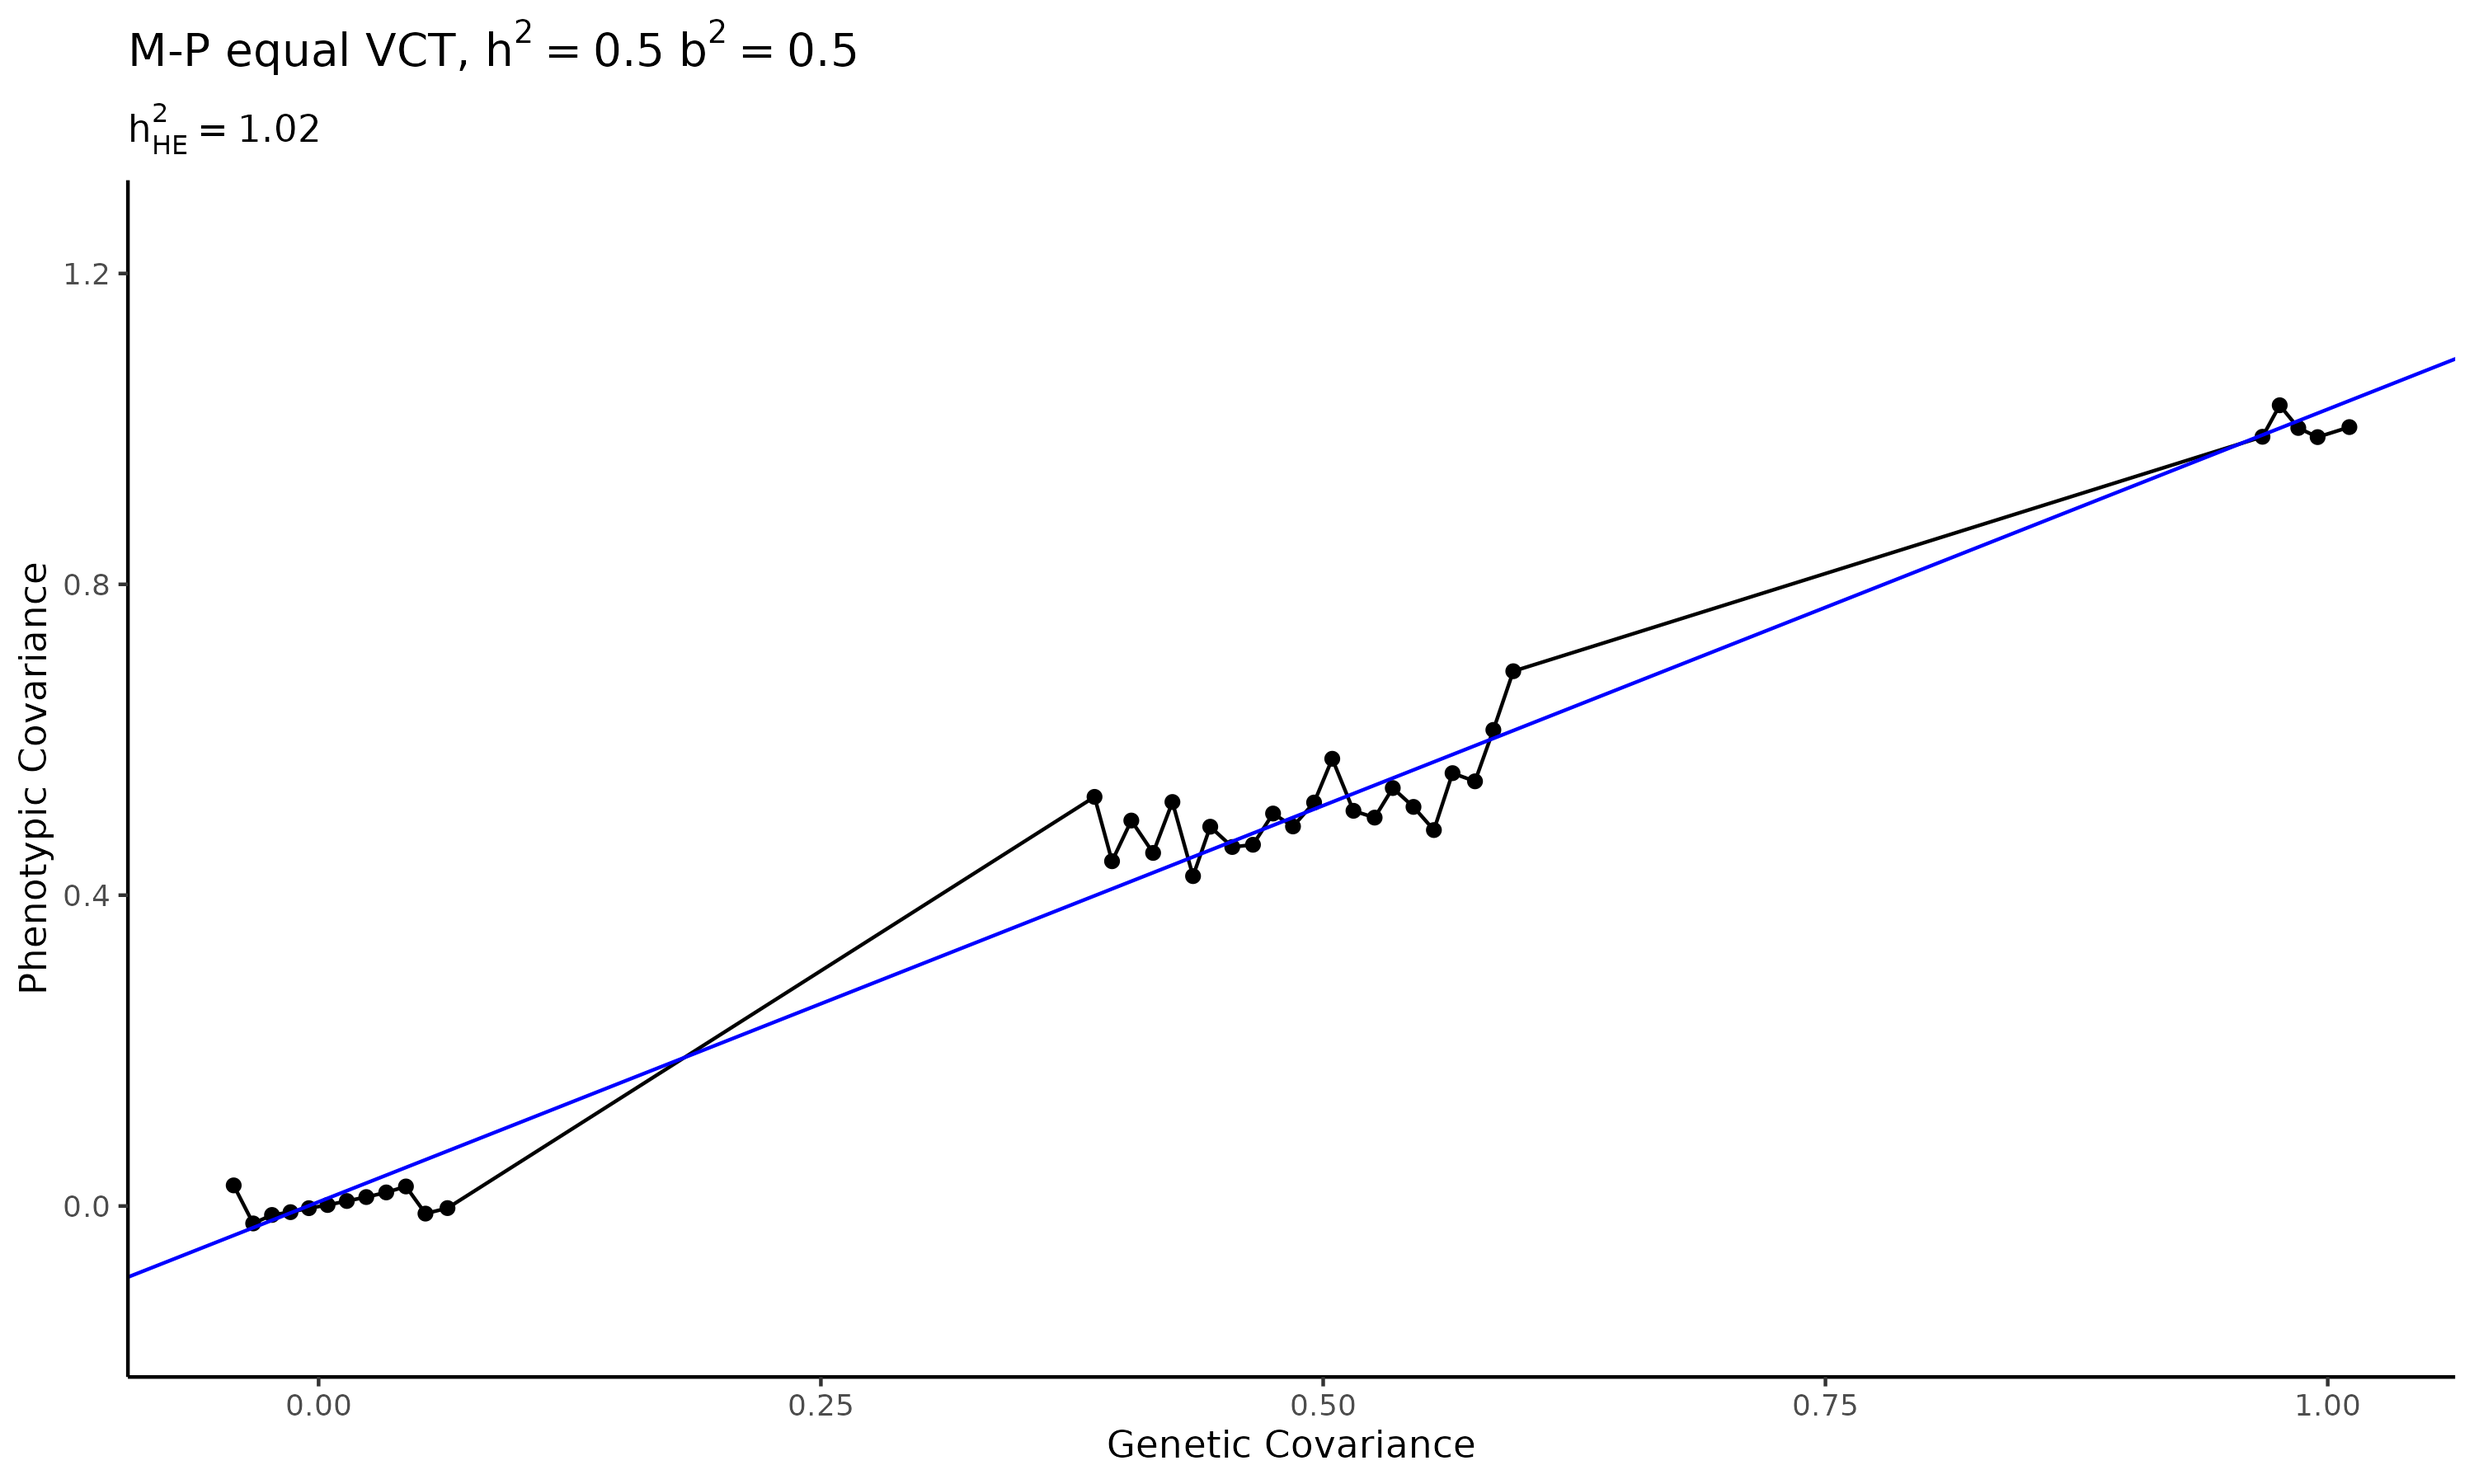
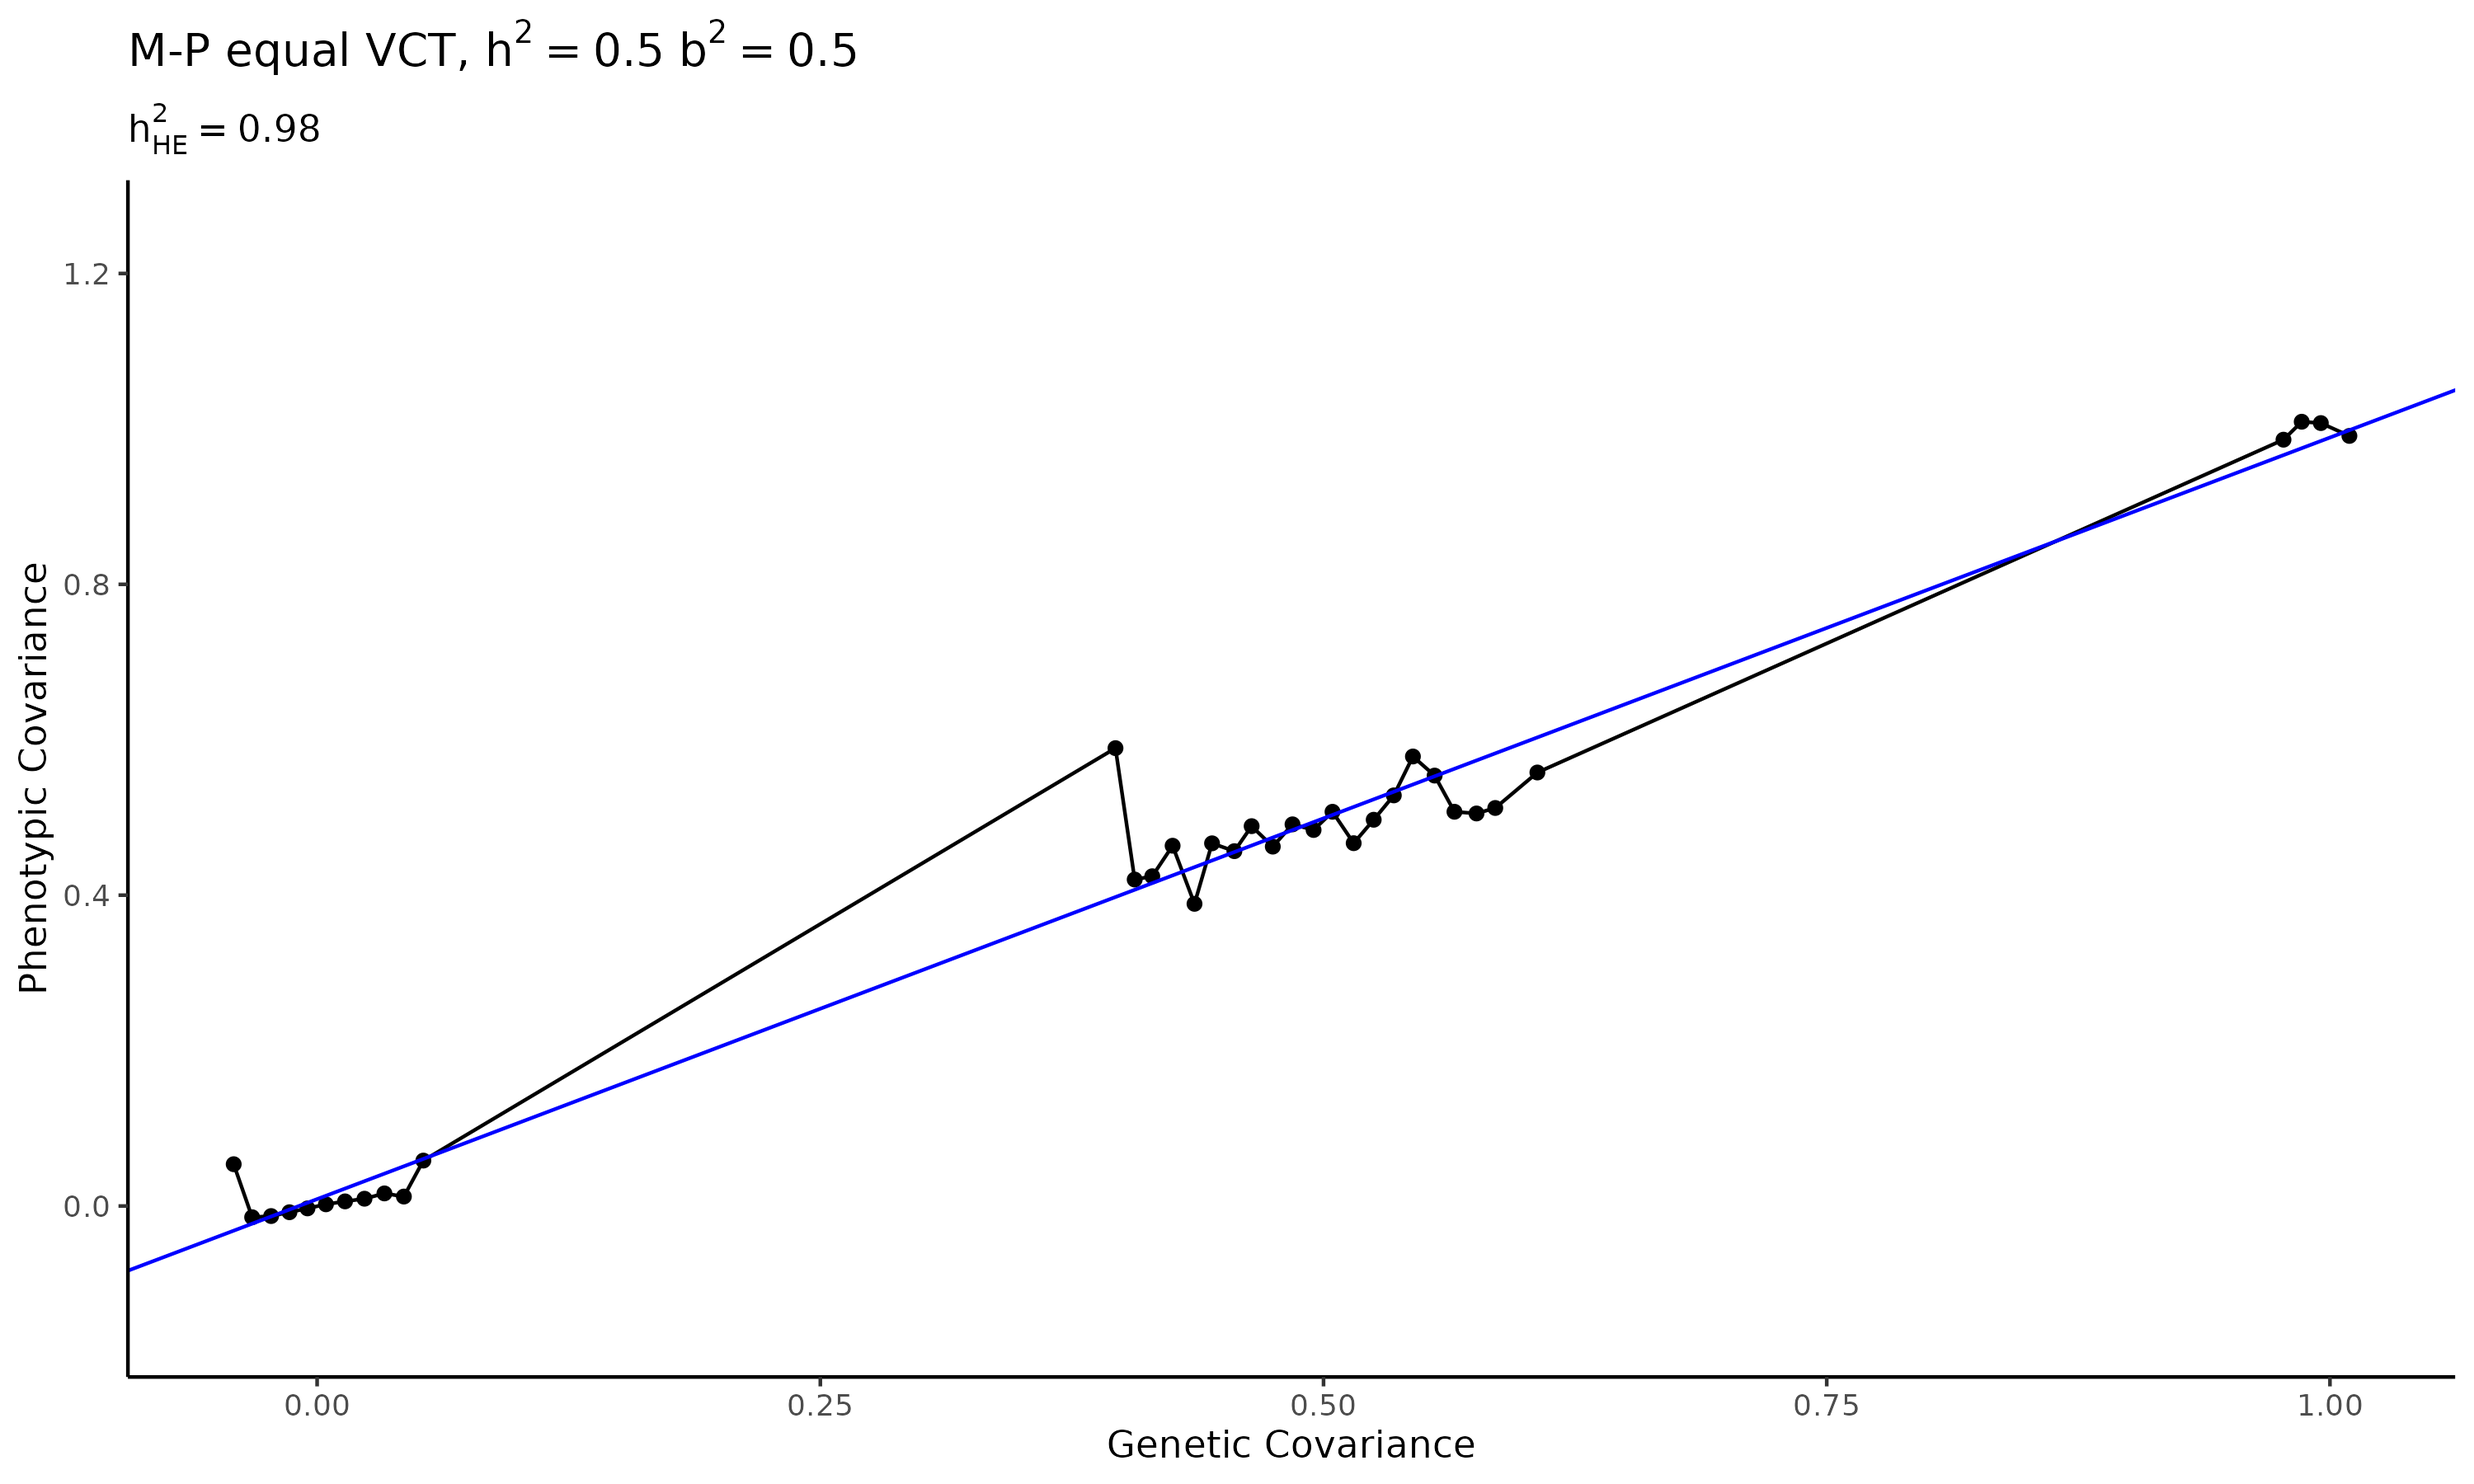
up to 50 replicates, still not really visible...?

diff --git a/scripts/minimal_simulation_utils.py b/scripts/minimal_simulation_utils.py
@@ -53,9 +53,14 @@ def compute_grm(simulation, maf_min: float = 0.01) -> np.ndarray:
     var = np.nanvar(geno, axis=0)
     var_mask = (var > 0) & ~np.isnan(var)
     geno = geno[:, var_mask]
-
-    return np.cov(geno)
-
+    
+    geno_centered = geno - np.nanmean(geno, axis=0)
+    
+    # direct GRM computation
+    m = geno_centered.shape[1]
+    grm = (geno_centered @ geno_centered.T) / m
+    
+    return grm
 
 def get_pedigree_distance(sim, maximum_depth=None) -> pd.DataFrame:
     """
@@ -151,7 +156,8 @@ def make_covariance_matrix(
     grm = compute_grm(simulation, maf_min=maf)
 
     # Phenotype-related covariance matrices.
-    pcov = pd_pheno.loc[:, ('Y', 'phenotype')] @ pd_pheno.loc[:, ('Y', 'phenotype')].T
+    y_vals = pd_pheno.loc[:, ('Y', 'phenotype')].values
+    pcov = y_vals @ y_vals.T
 
     # Upper-triangle entries (including diagonal).
     num_individuals = len(ids)
@@ -165,7 +171,7 @@ def make_covariance_matrix(
     data = {
         "pedigree_id1": [pair[0] for pair in individual_pairs],
         "pedigree_id2": [pair[1] for pair in individual_pairs],
-        "Y": pcov.values[tri_idx],
+        "Y": pcov[tri_idx],
         "Genetic_Covariance": grm[tri_idx],
     }
 
